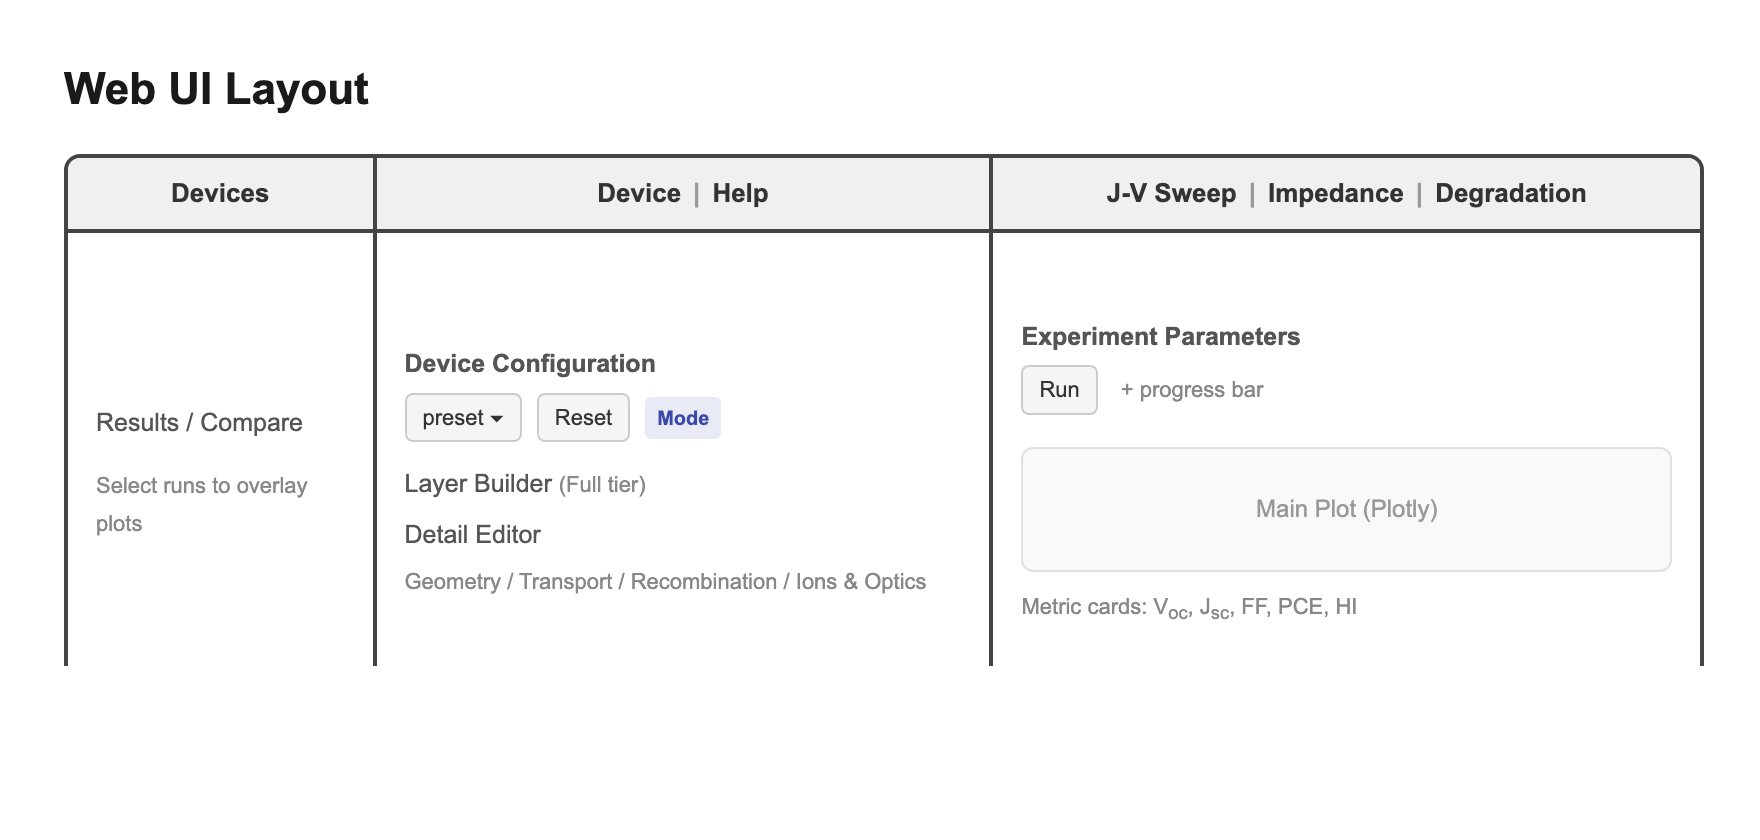
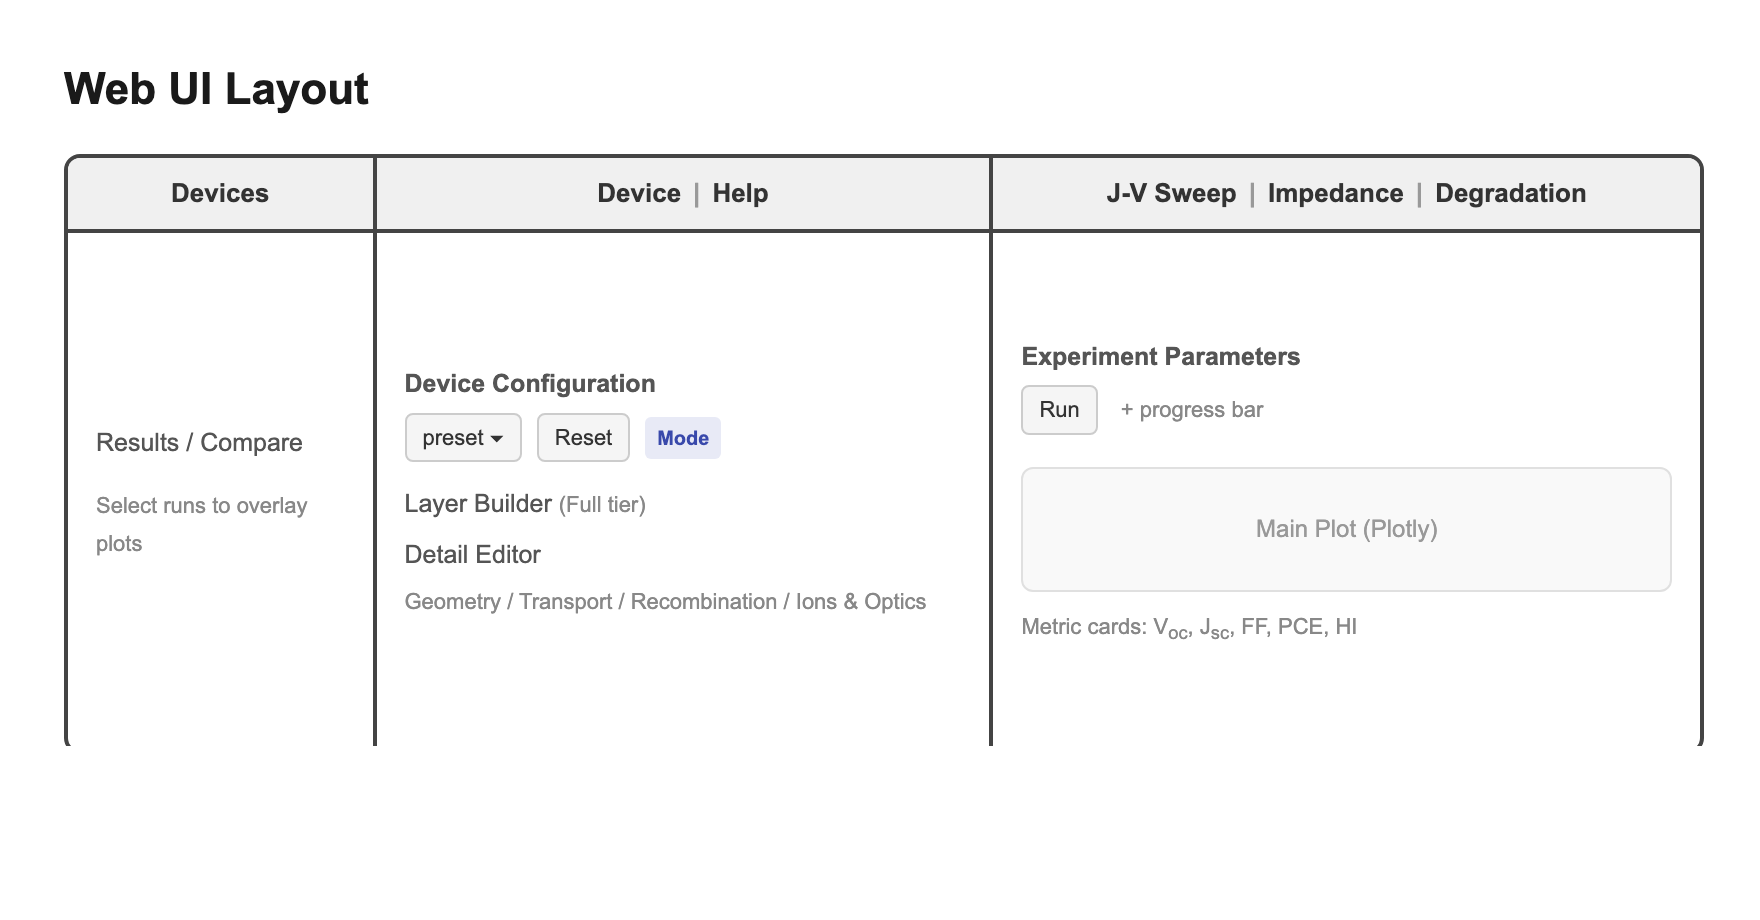
fix(docs): fix UI layout image bottom border cutoff

diff --git a/README.md b/README.md
@@ -337,7 +337,7 @@ After launching the backend and frontend (see [Running the Application](#-runnin
 ### Layout
 
 <p align="center">
-  <img src="perovskite-sim/docs/images/ui_layout.png" alt="Web UI Layout" width="700">
+  <img src="perovskite-sim/docs/images/ui_layout.png?v=2" alt="Web UI Layout" width="700">
 </p>
 
 ### Left rail — Devices / Results
